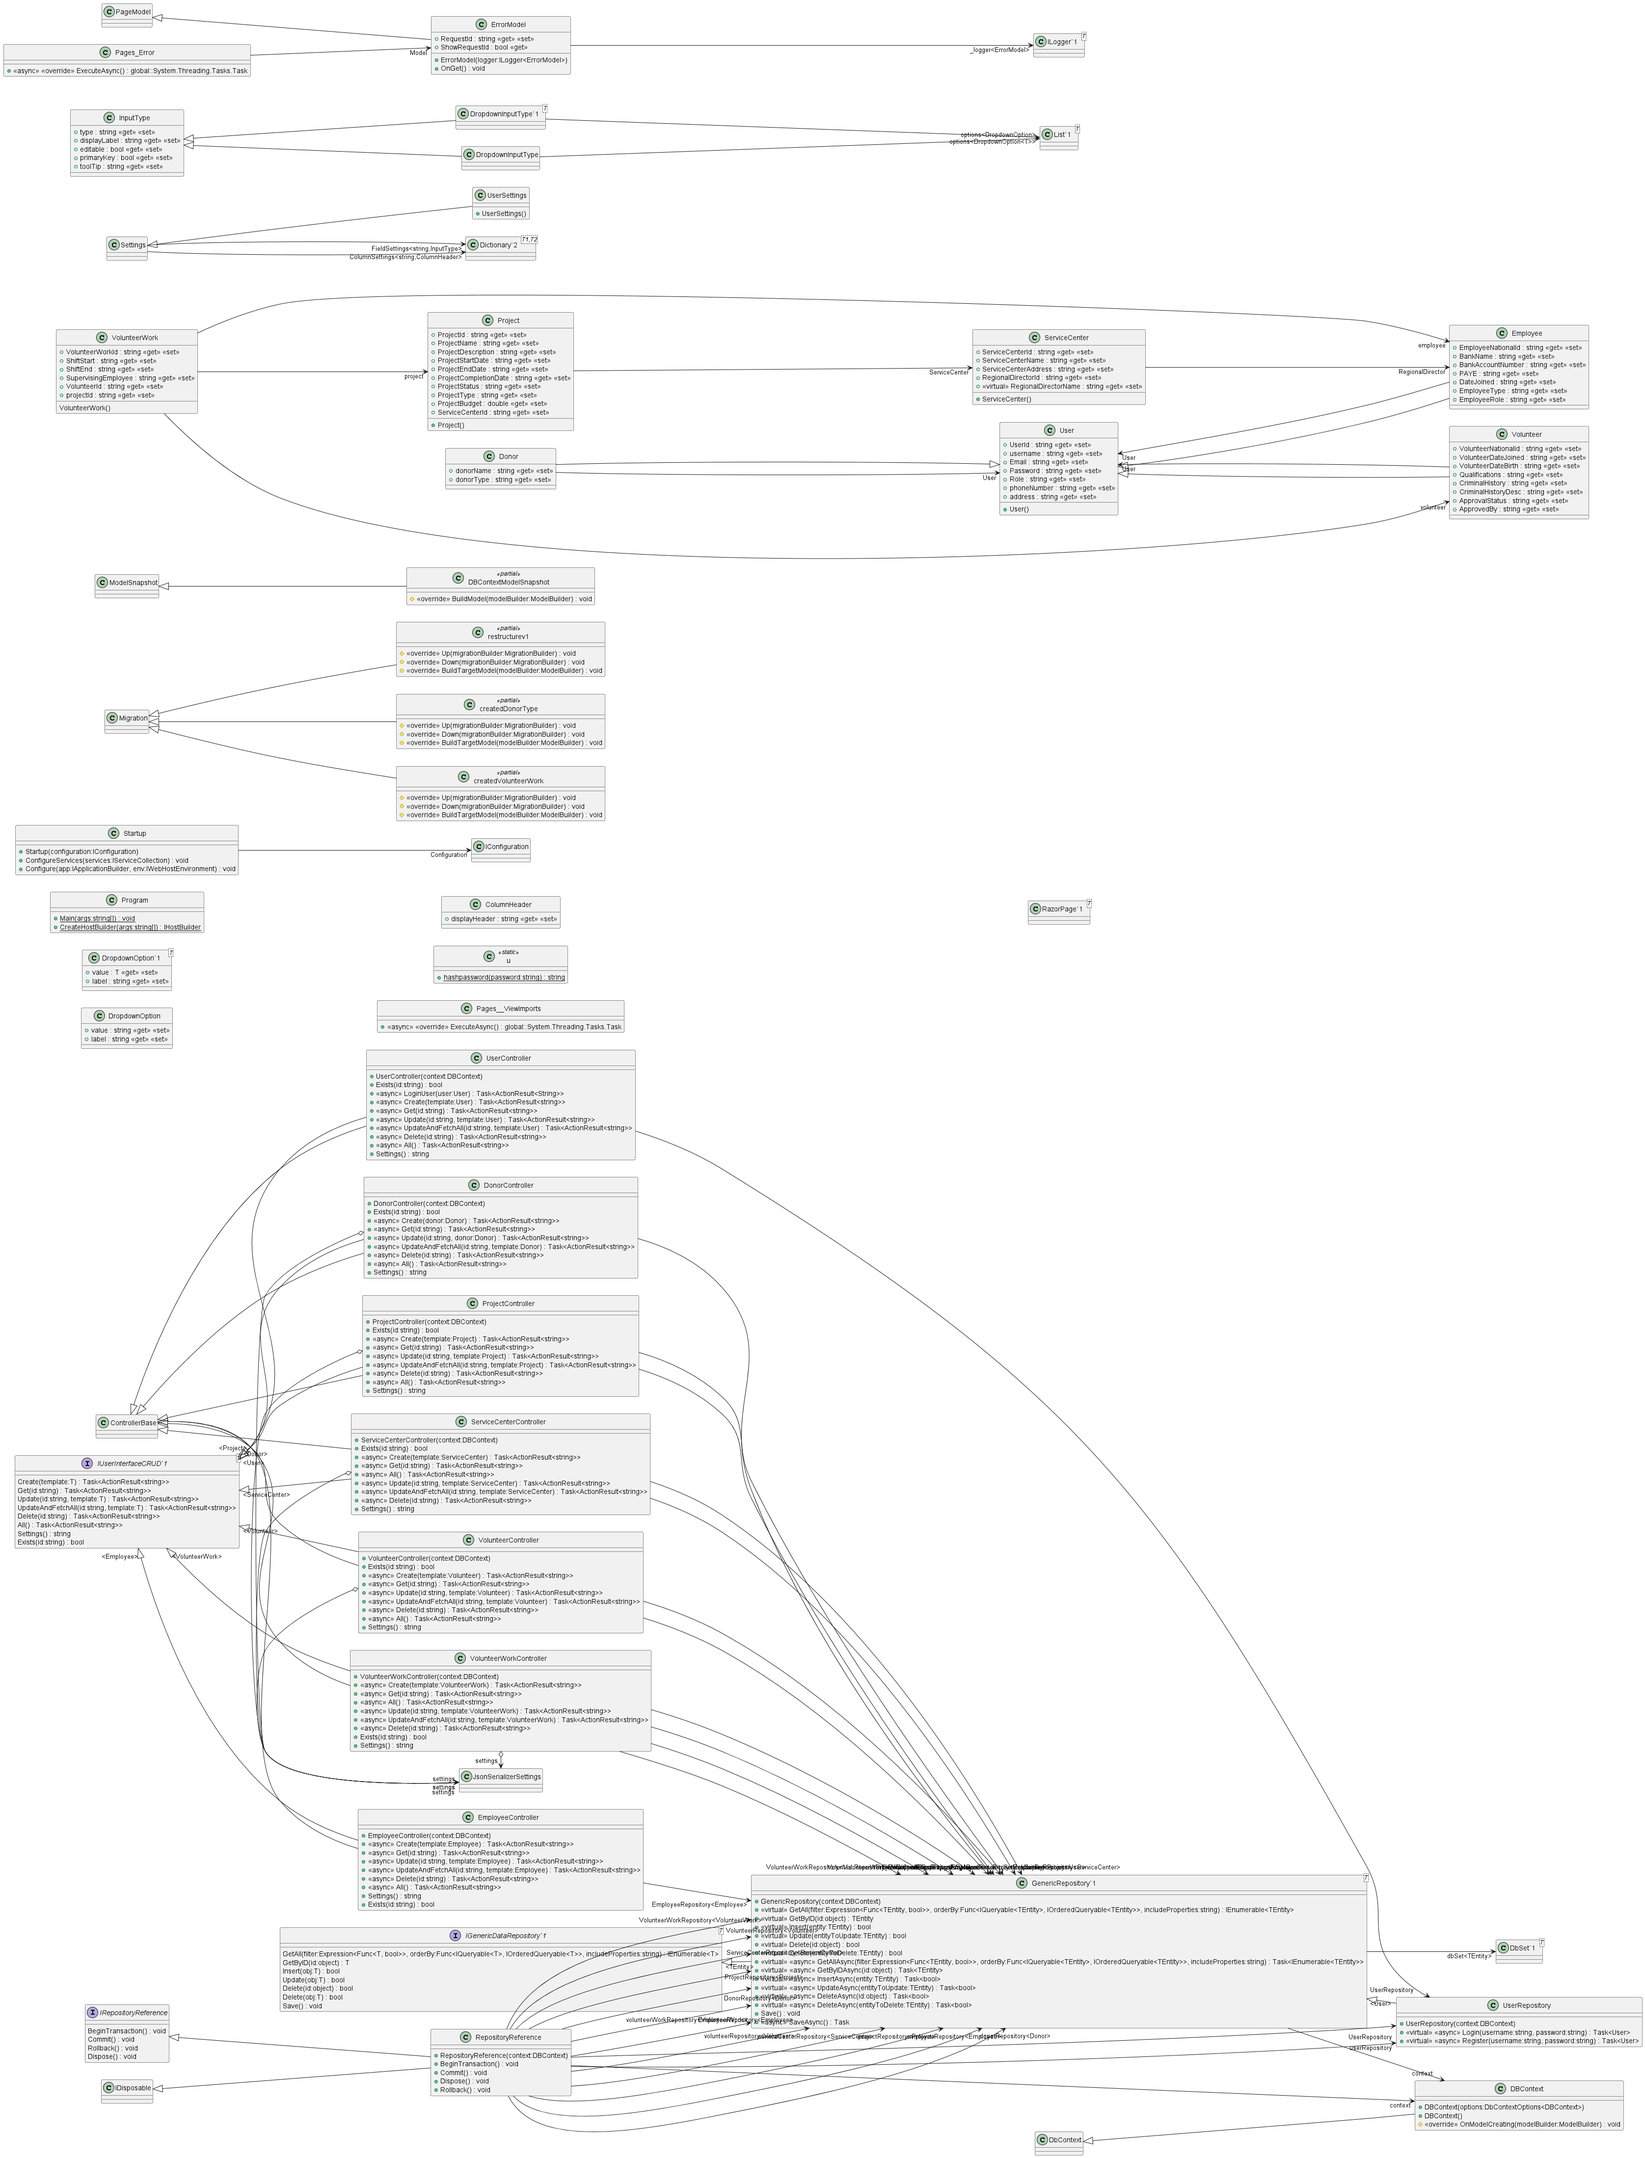
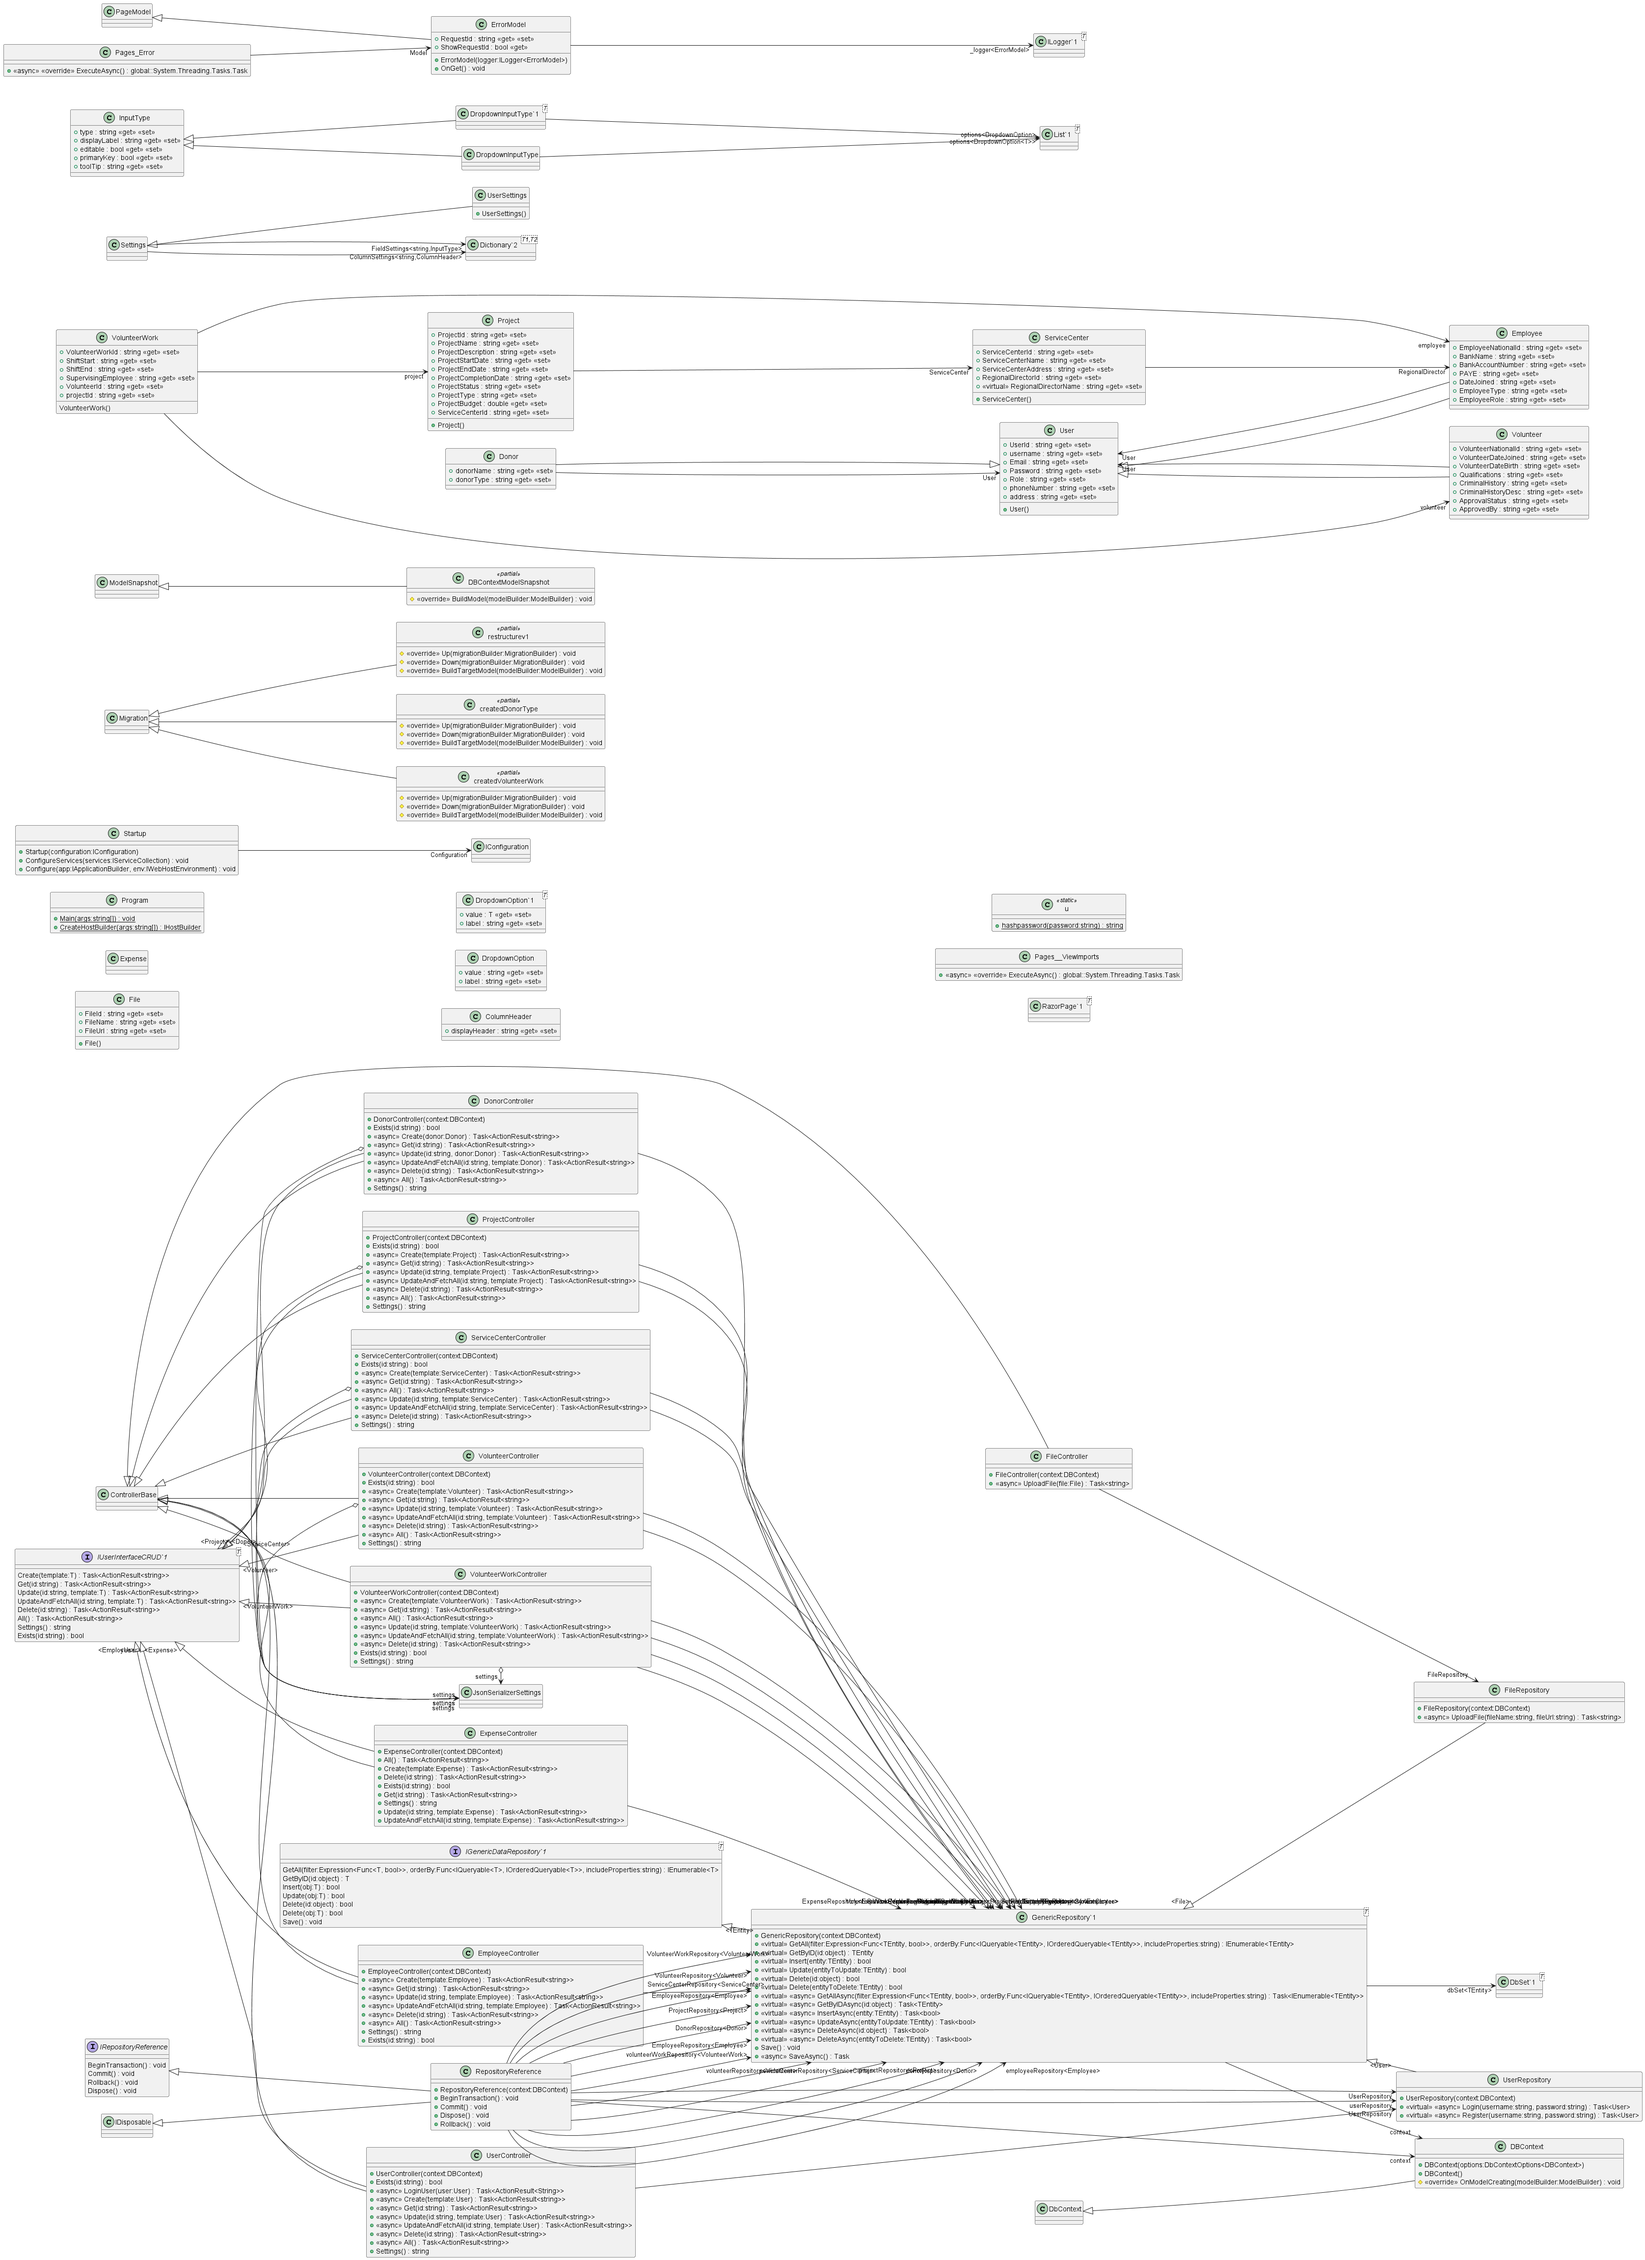
update repo reference

diff --git a/YouthActionDotNet/DAL/RepoReference.cs b/YouthActionDotNet/DAL/RepoReference.cs
@@ -12,15 +12,13 @@ namespace YouthActionDotNet.DAL{
             this.context = context;
         }
         private GenericRepository<Employee> employeeRepository;
-    
         private GenericRepository<Donor> donorRepository;
-
         private GenericRepository<Project> projectRepository;
         private GenericRepository<ServiceCenter> serviceCenterRepository;
         private UserRepository userRepository;
         private GenericRepository<Volunteer> volunteerRepository;
         private GenericRepository<VolunteerWork> volunteerWorkRepository;
-
+        private GenericRepository<File> fileRepository;
         public GenericRepository<Employee> EmployeeRepository
         {
             get
@@ -102,6 +100,18 @@ namespace YouthActionDotNet.DAL{
                     this.volunteerWorkRepository = new GenericRepository<VolunteerWork>(context);
                 }
                 return volunteerWorkRepository;
+            }
+        }
+
+        public GenericRepository<File> FileRepository
+        {
+            get
+            {
+                if (this.fileRepository == null)
+                {
+                    this.fileRepository = new GenericRepository<File>(context);
+                }
+                return fileRepository;
             }
         }
         
